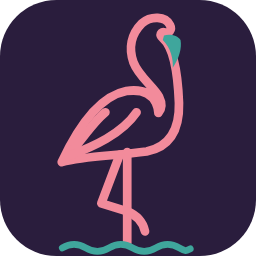
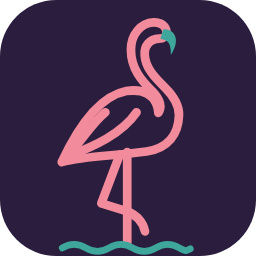
Flamant : cou affine et bec casse vers le bas, il ne ressemble plus a un toucan

Changed region(s): [[0.5, 0.0312, 0.7188, 0.625]]

diff --git a/index.html b/index.html
@@ -12,14 +12,14 @@
 <meta property="og:type" content="website">
 <meta property="og:url" content="https://maisonflamingo.fr/">
 <meta property="og:site_name" content="Maison Flamingo">
-<meta property="og:image" content="https://maisonflamingo.fr/partage.png?v=3">
+<meta property="og:image" content="https://maisonflamingo.fr/partage.png?v=4">
 <meta property="og:image:width" content="1200">
 <meta property="og:image:height" content="630">
 <meta property="og:image:alt" content="Maison Flamingo, coucher de soleil sur la piscine : Plongez, on s'occupe du reste">
 <meta name="twitter:card" content="summary_large_image">
 <link rel="canonical" href="https://maisonflamingo.fr/">
-<link rel="icon" href="favicon.png?v=2" type="image/png">
-<link rel="apple-touch-icon" href="favicon.png?v=2">
+<link rel="icon" href="favicon.png?v=3" type="image/png">
+<link rel="apple-touch-icon" href="favicon.png?v=3">
 <link rel="preconnect" href="https://fonts.googleapis.com">
 <link rel="preconnect" href="https://fonts.gstatic.com" crossorigin>
 <link href="https://fonts.googleapis.com/css2?family=Josefin+Sans:wght@200;300;400;600;700&family=Jost:ital,wght@0,300;0,400;0,500;0,600;1,400&display=swap" rel="stylesheet">
@@ -50,7 +50,7 @@
 <header class="nav" id="nav">
   <div class="wrap nav-inner">
     <a href="#haut" class="logo" aria-label="Maison Flamingo, retour en haut">
-      <img class="logo-flamant" src="flamant.png?v=2" alt="" width="30" height="45">
+      <img class="logo-flamant" src="flamant.png?v=3" alt="" width="30" height="45">
       <span class="logo-mots"><span class="logo-maison">Maison</span><span class="logo-flamingo">Flamingo</span></span>
     </a>
     <nav class="nav-liens" aria-label="Navigation principale">
@@ -91,7 +91,7 @@
 
       <figure class="carte-passage" aria-label="Exemple de carte laissée après un passage">
         <div class="carte-entete">
-          <img src="flamant.png?v=2" alt="" width="18" height="30">
+          <img src="flamant.png?v=3" alt="" width="18" height="30">
           <span>Maison Flamingo</span>
         </div>
         <p class="carte-ligne">Votre Flamingo est passé jeudi 10 juin, à 10 h 40.</p>
@@ -407,7 +407,7 @@
   <div class="bande-sunset" aria-hidden="true"></div>
   <div class="wrap pied-grille">
     <div class="logo logo-pied">
-      <img class="logo-flamant" src="flamant.png?v=2" alt="" width="30" height="45">
+      <img class="logo-flamant" src="flamant.png?v=3" alt="" width="30" height="45">
       <span class="logo-mots"><span class="logo-maison">Maison</span><span class="logo-flamingo">Flamingo</span></span>
     </div>
     <div class="pied-liens">

diff --git a/app/espace.html b/app/espace.html
@@ -10,8 +10,8 @@
 <meta name="apple-mobile-web-app-title" content="Ma piscine">
 <title>Mon espace · Maison Flamingo</title>
 <link rel="manifest" href="espace.webmanifest">
-<link rel="icon" href="icone.png?v=2" type="image/png">
-<link rel="apple-touch-icon" href="icone.png?v=2">
+<link rel="icon" href="icone.png?v=3" type="image/png">
+<link rel="apple-touch-icon" href="icone.png?v=3">
 <link rel="preconnect" href="https://fonts.googleapis.com">
 <link rel="preconnect" href="https://fonts.gstatic.com" crossorigin>
 <link href="https://fonts.googleapis.com/css2?family=Josefin+Sans:wght@300;400;600;700&family=Jost:wght@300;400;500;600&display=swap" rel="stylesheet">
@@ -22,7 +22,7 @@
 <header class="entete">
   <div class="bande"></div>
   <div class="entete-dedans">
-    <img src="flamant.png?v=2" alt="" width="31" height="51">
+    <img src="flamant.png?v=3" alt="" width="31" height="51">
     <div class="mots"><span class="petit">Maison</span><span class="grand">Flamingo</span></div>
   </div>
 </header>

diff --git a/app/index.html b/app/index.html
@@ -9,14 +9,14 @@
 <meta name="apple-mobile-web-app-title" content="Flamingo">
 <title>Maison Flamingo · Terrain</title>
 <link rel="manifest" href="manifest.webmanifest">
-<link rel="icon" href="icone.png?v=2" type="image/png">
-<link rel="apple-touch-icon" href="icone.png?v=2">
+<link rel="icon" href="icone.png?v=3" type="image/png">
+<link rel="apple-touch-icon" href="icone.png?v=3">
 <link rel="stylesheet" href="vendor/leaflet/leaflet.css?v=1.9.4">
 <link rel="stylesheet" href="app.css?v=6">
 </head>
 <body>
 <header class="barre">
-  <a class="marque" href="#/"><img src="flamant.png?v=2" alt="" width="18" height="30"><span>Maison <strong>Flamingo</strong></span></a>
+  <a class="marque" href="#/"><img src="flamant.png?v=3" alt="" width="18" height="30"><span>Maison <strong>Flamingo</strong></span></a>
   <span class="etat"><span id="attente" class="attente" hidden></span><span id="qui"></span></span>
 </header>
 <nav id="nav" class="menu" hidden></nav>

diff --git a/app/sw.js b/app/sw.js
@@ -1,8 +1,8 @@
 // L'outil s'ouvre même sans réseau au fond d'un jardin : la coquille est gardée en cache.
 // Les données, elles, ne passent jamais par ce cache : elles vont toujours au serveur.
-const VERSION = 'flamingo-terrain-8';
+const VERSION = 'flamingo-terrain-9';
 const COQUILLE = ['./', 'index.html', 'app.css?v=6', 'commun.js?v=2', 'formulaires.js?v=3', 'app.js?v=6', 'admin.js?v=6', 'tournee.js?v=2', 'carnet.js?v=2',
-  'vendor/leaflet/leaflet.js?v=1.9.4', 'vendor/leaflet/leaflet.css?v=1.9.4', 'vendor/qrcode.js?v=1.4.4', 'icone.png?v=2', 'flamant.png?v=2', 'manifest.webmanifest'];
+  'vendor/leaflet/leaflet.js?v=1.9.4', 'vendor/leaflet/leaflet.css?v=1.9.4', 'vendor/qrcode.js?v=1.4.4', 'icone.png?v=3', 'flamant.png?v=3', 'manifest.webmanifest'];
 
 self.addEventListener('install', (e) => {
   e.waitUntil(caches.open(VERSION).then((c) => c.addAll(COQUILLE)).then(() => self.skipWaiting()));

diff --git a/app/rapport.html b/app/rapport.html
@@ -7,7 +7,7 @@
 <meta name="referrer" content="no-referrer">
 <meta name="theme-color" content="#2A1D3D">
 <title>Votre rapport · Maison Flamingo</title>
-<link rel="icon" href="icone.png?v=2" type="image/png">
+<link rel="icon" href="icone.png?v=3" type="image/png">
 <link rel="preconnect" href="https://fonts.googleapis.com">
 <link rel="preconnect" href="https://fonts.gstatic.com" crossorigin>
 <link href="https://fonts.googleapis.com/css2?family=Josefin+Sans:wght@300;400;600;700&family=Jost:wght@300;400;500;600&display=swap" rel="stylesheet">
@@ -17,7 +17,7 @@
 <header class="entete">
   <div class="bande"></div>
   <div class="entete-dedans">
-    <img src="flamant.png?v=2" alt="" width="31" height="51">
+    <img src="flamant.png?v=3" alt="" width="31" height="51">
     <span class="mots"><span class="petit">Maison</span><span class="grand">Flamingo</span></span>
   </div>
 </header>

diff --git a/mentions-legales.html b/mentions-legales.html
@@ -5,7 +5,7 @@
 <meta name="viewport" content="width=device-width, initial-scale=1">
 <title>Mentions légales · Maison Flamingo</title>
 <meta name="robots" content="noindex">
-<link rel="icon" href="favicon.png?v=2" type="image/png">
+<link rel="icon" href="favicon.png?v=3" type="image/png">
 <link rel="preconnect" href="https://fonts.googleapis.com">
 <link rel="preconnect" href="https://fonts.gstatic.com" crossorigin>
 <link href="https://fonts.googleapis.com/css2?family=Josefin+Sans:wght@200;300;400;600&family=Jost:wght@300;400;500&display=swap" rel="stylesheet">
